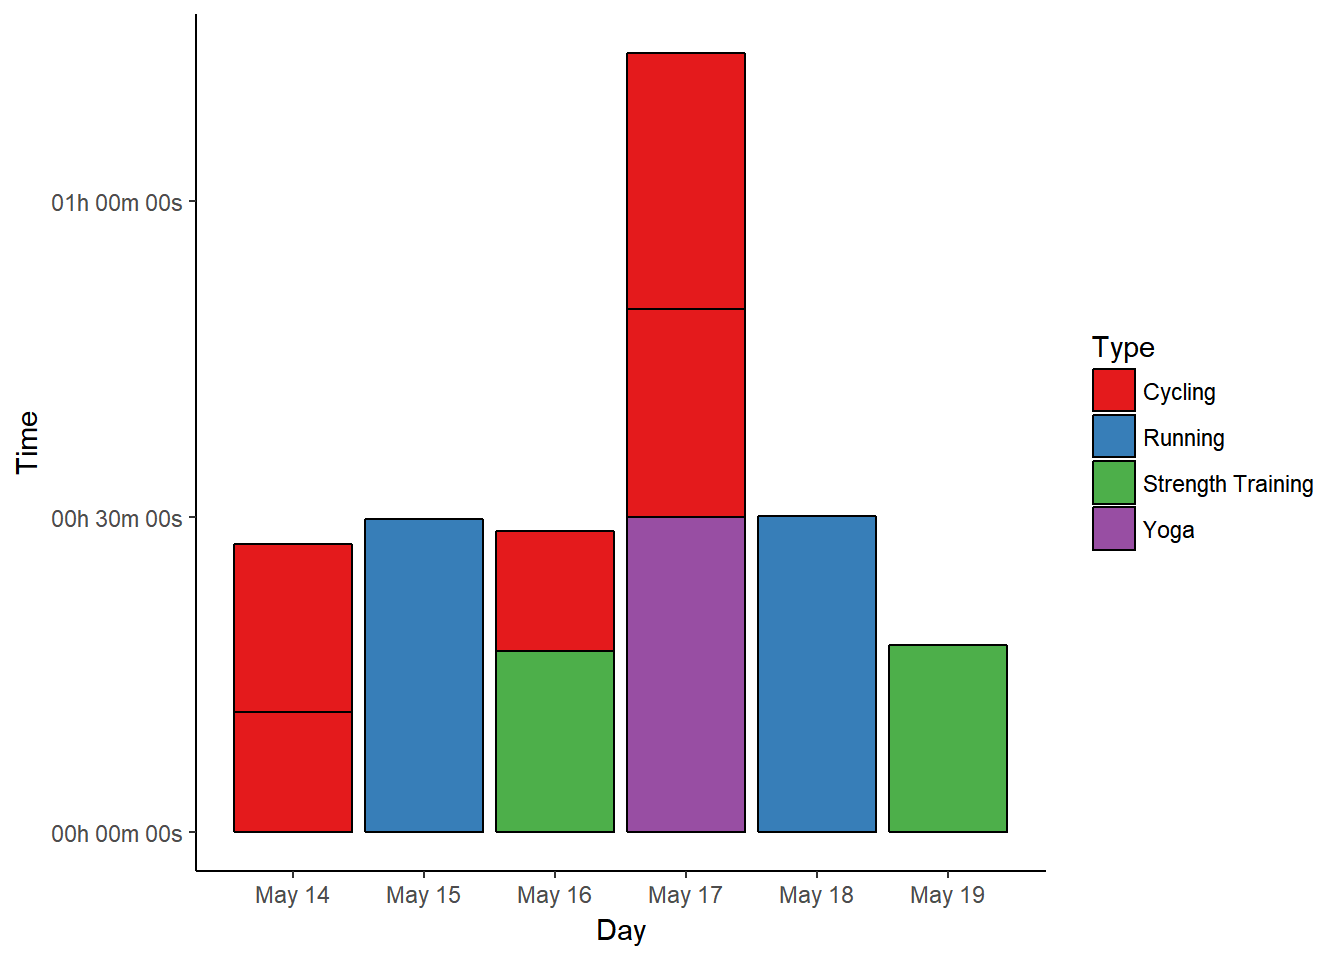
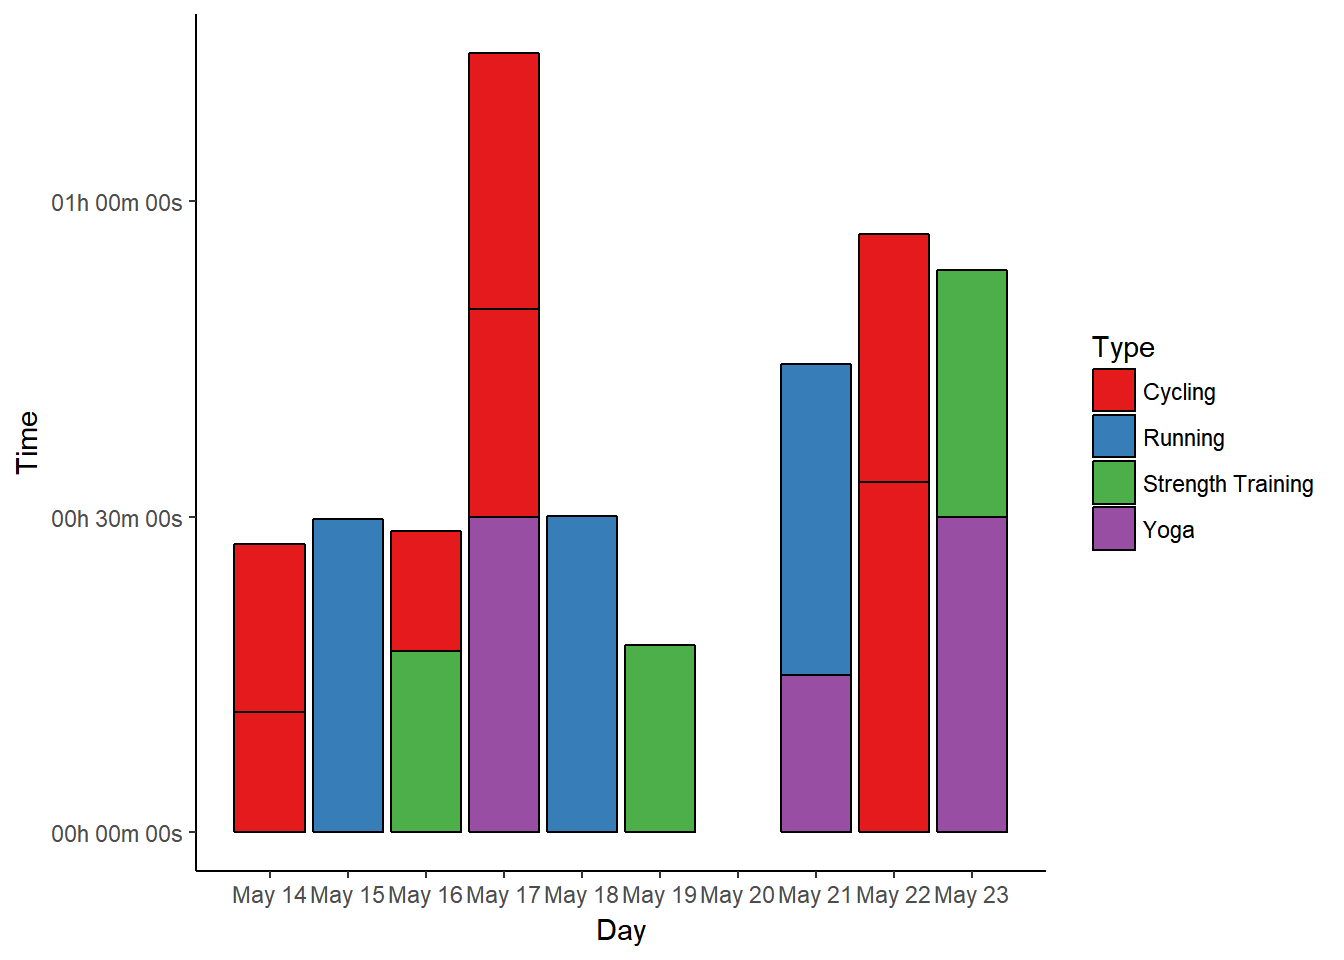
added preliminary data for week 2

Changed region(s): [[0.2188, 0.0312, 0.75, 0.875], [0.1562, 0.9062, 0.75, 0.9688]]

diff --git a/docs/Overview.html b/docs/Overview.html
@@ -253,8 +253,13 @@ $(document).ready(function () {
 
 
 <pre class="r"><code># read in data
-data &lt;- read.table(&quot;Week1.csv&quot;, header = TRUE, sep = &quot;,&quot;, na.strings = c(&quot;NA&quot;, 
+week1 &lt;- read.table(&quot;Week1.csv&quot;, header = TRUE, sep = &quot;,&quot;, na.strings = c(&quot;NA&quot;, 
     &quot;--&quot;, &quot;&quot;))
+week2 &lt;- read.table(&quot;Week2.csv&quot;, header = TRUE, sep = &quot;,&quot;, na.strings = c(&quot;NA&quot;, 
+    &quot;--&quot;, &quot;&quot;))
+
+# combine data
+data &lt;- rbind(week2, week1)
 
 # convert time/date objects
 data$Start &lt;- as.POSIXct(data$Start, format = &quot;%a, %d %B %Y %H:%M&quot;)
@@ -317,7 +322,7 @@ p3</code></pre>
 </div>
 <div id="summary" class="section level3">
 <h3>Summary</h3>
-<p><strong>6/100</strong> workouts done.</p>
+<p><strong>9/100</strong> workouts done.</p>
 <p><a href="https://twitter.com/i/moments/867351430079840256">#SummerPain on twitter</a></p>
 </div>
 
